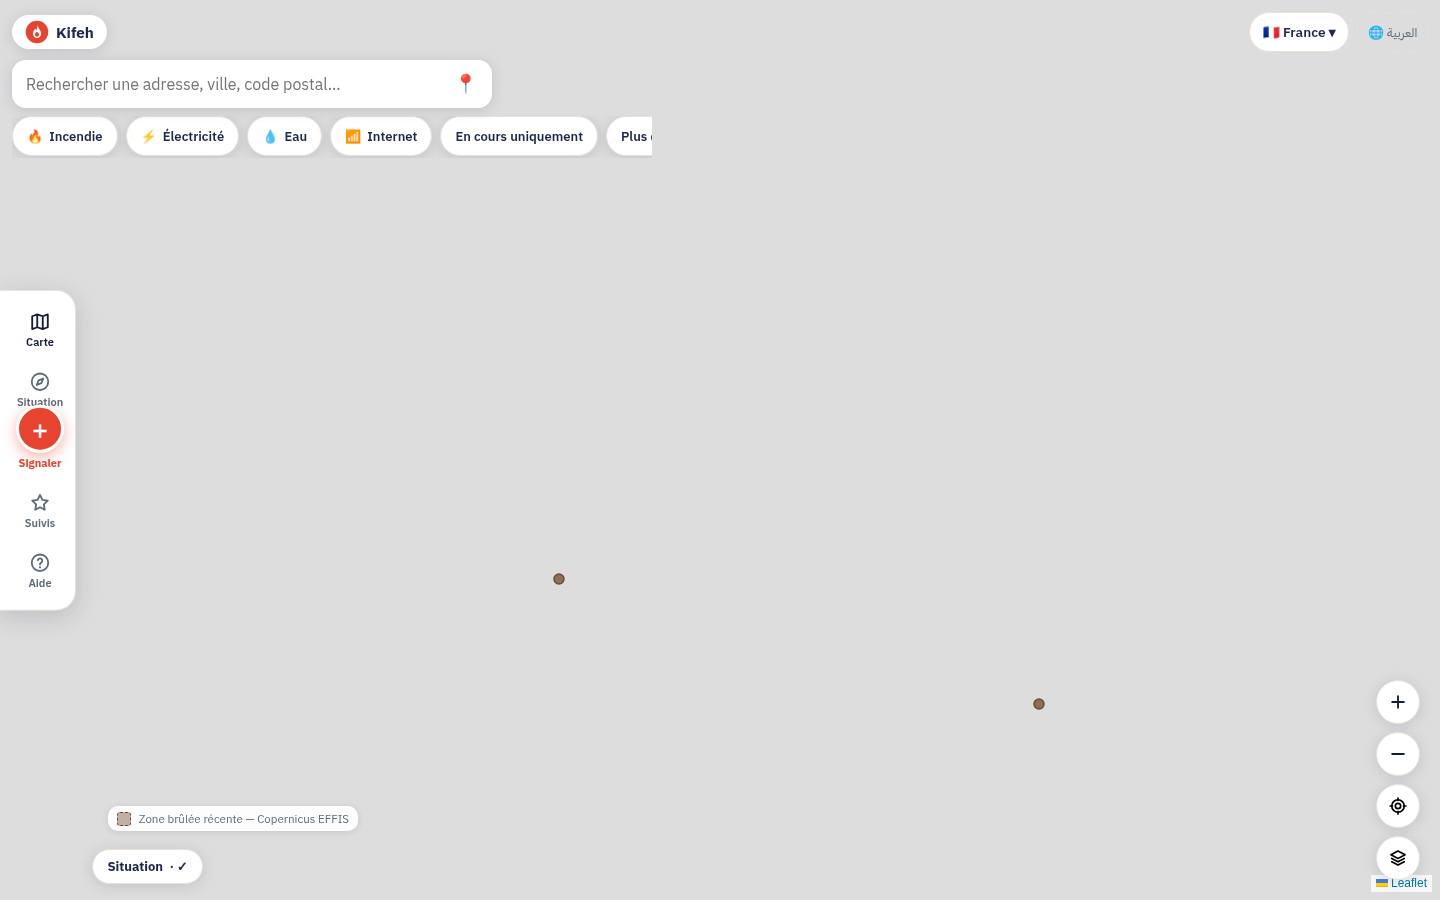
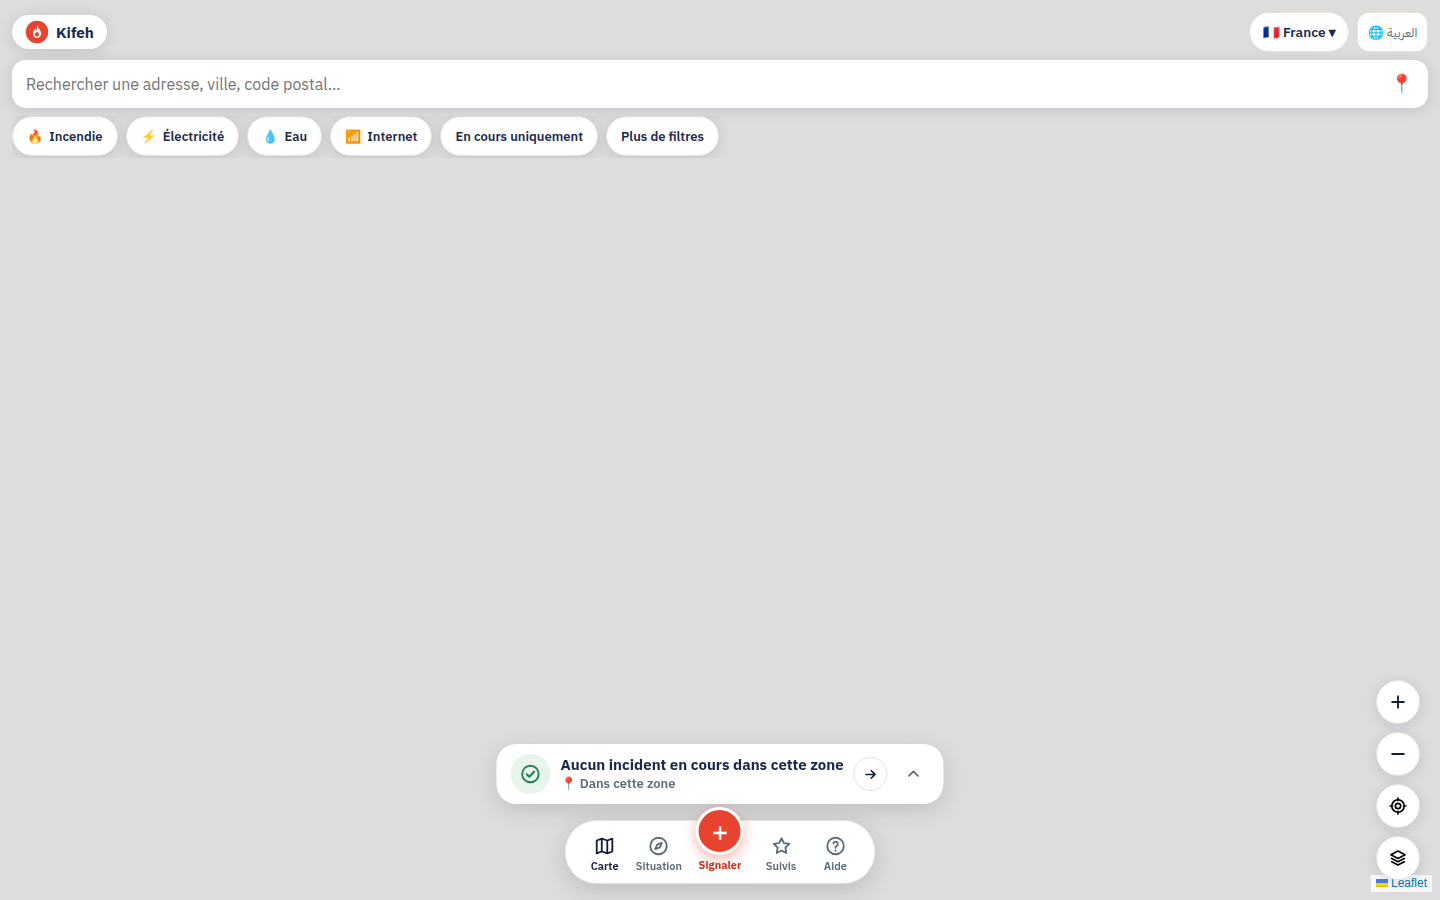
VISIBLE — Mobile #112 (incréments A+D) + météo honnête + légendes + lead-gen
Mobile, mesuré (ux-audit) : 390 px 39→35 % de carte recouverte, 320 px
56→52, 375 px 48→44 —
- A. carte héro REPLIÉE par défaut quand il ne se passe rien (choix
  explicite toujours gagnant)
- D. boutons ± masqués sur mobile (pincement) — position et couches
  restent ; tests modernisés en conséquence

Bannière météo honnête (retour Farah « pas vrai ») : un échec ponctuel ne
supprime plus le voile affiché ni ne crie « indisponible » — on garde le
connu, avertissement après 2 échecs max 1 fois/5 min, message distinct
« impossible de rafraîchir » vs « indisponible » (fr/ar).

Légendes desktop : côté FIN au-dessus des FAB (ma position bas-gauche
d'hier chevauchait la carte héro — le test anti-chevauchement l'a aussi
attrapé), RTL miroir.

Lead generation :
- IndexNow : clé stable auto-générée, fichier-clé servi /{clé}.txt, ping
  QUOTIDIEN des URLs publiques (mêmes registres que le sitemap) vers
  Bing/Yandex — production réelle uniquement, jamais un serveur de test
- Search Console : route /googleXXXX.html pilotée par réglage — l'action
  Farah tombe à 5 minutes (coller le nom de fichier)
- platform-check 137 ✓ (+4 lead-gen)

Batterie complète verte (backend, navigateur, mesure, marque re-référencée).

Claude-Session: https://claude.ai/code/session_01Xtj68HpNxhqV9w3jxL5u9R

diff --git a/src/routes/seo.js b/src/routes/seo.js
@@ -10,6 +10,7 @@ import { db, getSetting } from '../db.js';
 import { getProfile } from '../countries/index.js';
 import { getCapabilities } from '../services/capabilityRegistry.js';
 import { nsMsg, getNamespace } from '../services/i18nNamespaces.js';
+import { indexNowKey } from '../services/indexnow.js';
 import { fmtDateTime, emergencyLine } from '../services/localizationFormatter.js';
 import { getDailyForecast, forecastEnabled } from '../services/fireForecast.js';
 import { summarizeConditions } from '../services/fireForecastSummary.js';
@@ -325,6 +326,47 @@ seoRouter.get('/i/:publicId', (req, res) => {
 <p><strong>${esc(title)}</strong></p><p>${esc(desc)}</p>
 <p><a href="${appUrl}">Kifeh كيفاه →</a></p>
 </body></html>`);
+});
+
+// Liste des URLs publiques indexables — LA MÊME vérité que le sitemap
+// (consommée par IndexNow : une page qui existe est poussée, une page
+// retirée disparaît des pings).
+export function listSeoUrls() {
+  const urls = ['/', '/declare.html', '/faq.html', '/a-propos.html', '/legal.html', '/presse'];
+  for (const lang of LANGS) {
+    for (const cc of CCS) {
+      urls.push(`/${lang}/${cc}/incendies`);
+      for (const topic of ['previsions', 'danger-feu', 'methodologie-previsions']) {
+        urls.push(`/${lang}/${cc}/incendies/${topic}`);
+      }
+      for (const z of getProfile(cc.toUpperCase())?.seoZones || []) {
+        urls.push(`/${lang}/${cc}/incendies/${z.slug}`);
+      }
+      urls.push(`/${lang}/${cc}/incendies/comprendre/detections-satellite`);
+      if (cc === 'fr') urls.push(`/${lang}/fr/incendies/comprendre/reperes-dfci`);
+    }
+  }
+  return urls;
+}
+
+// ── Fichier-clé IndexNow + vérification Search Console ─────────────────────
+// /{clé}.txt : preuve de propriété IndexNow (clé stable, réglage).
+// /googleXXXX.html : preuve Search Console — Farah colle le NOM DE FICHIER
+// donné par Google, une migration pose le réglage, la route répond. Zéro
+// contenu tant que le réglage est vide (404 propre).
+seoRouter.get('/:keyfile', (req, res, next) => {
+  const f = String(req.params.keyfile || '');
+  if (/^[a-f0-9]{32}\.txt$/.test(f)) {
+    const key = indexNowKey(); // générée au premier passage, stable ensuite
+    if (f === `${key}.txt`) return res.type('text/plain').send(key);
+  }
+  if (/^google[a-f0-9]{16}\.html$/.test(f)) {
+    const wanted = getSetting('google_verification_file');
+    if (wanted && f === wanted) {
+      return res.type('html').send(`google-site-verification: ${f}`);
+    }
+  }
+  next(); // pas pour nous : statique et 404 habituels
 });
 
 // ── Sitemap GÉNÉRÉ depuis les registres (#83) ───────────────────────────────

diff --git a/src/services/indexnow.js b/src/services/indexnow.js
@@ -1,0 +1,55 @@
+// IndexNow (#lead-gen) — indexation INSTANTANÉE Bing/Yandex/Seznam, sans
+// console ni compte : un fichier-clé servi à la racine + un ping quotidien
+// avec la liste des URLs publiques (les mêmes registres que le sitemap).
+// Google ignore IndexNow — pour Google, c'est Search Console (action Farah,
+// réduite à coller un nom de fichier grâce à la route de vérification).
+// Garde-fous : jamais en sandbox/développement, jamais depuis un serveur de
+// test (hôte kifeh.app uniquement), 1 ping par 24 h, échec silencieux borné.
+import { getSetting, setSetting } from '../db.js';
+import crypto from 'node:crypto';
+
+const ENDPOINT = () => process.env.INDEXNOW_URL || 'https://api.indexnow.org/indexnow';
+const HOST = 'kifeh.app';
+const BASE = `https://${HOST}`;
+
+// La clé est générée UNE fois puis stable (le fichier-clé doit rester servi).
+export function indexNowKey() {
+  let k = getSetting('indexnow_key');
+  if (!/^[a-f0-9]{32}$/.test(k || '')) {
+    k = crypto.randomBytes(16).toString('hex');
+    setSetting('indexnow_key', k);
+  }
+  return k;
+}
+
+// Appelé par le scheduler (tick 60 s) : au plus un ping par 24 h.
+export async function syncIndexNow({ listUrls, force = false } = {}) {
+  if (getSetting('indexnow_enabled') === '0') return { skipped: 'disabled' };
+  const baseUrl = process.env.BASE_URL || '';
+  if (!force && !baseUrl.includes(HOST)) return { skipped: 'not_prod' }; // jamais depuis un serveur de test
+  const last = Date.parse(getSetting('indexnow_last_ping_at') || 0) || 0;
+  if (!force && Date.now() - last < 24 * 3600_000) return { skipped: 'recent' };
+  const urls = (listUrls?.() || []).map((p) => (p.startsWith('http') ? p : BASE + p));
+  if (!urls.length) return { skipped: 'empty' };
+  const key = indexNowKey();
+  const r = await fetch(ENDPOINT(), {
+    method: 'POST',
+    headers: { 'Content-Type': 'application/json; charset=utf-8' },
+    body: JSON.stringify({
+      host: HOST, key, keyLocation: `${BASE}/${key}.txt`, urlList: urls.slice(0, 500),
+    }),
+    signal: AbortSignal.timeout(10_000),
+  });
+  // 200/202 = accepté. On horodate même un refus permanent (4xx) pour ne pas
+  // marteler l'API — le prochain essai attendra son tour quotidien.
+  setSetting('indexnow_last_ping_at', new Date().toISOString());
+  setSetting('indexnow_last_status', String(r.status));
+  return { status: r.status, urls: urls.length };
+}
+
+export function indexNowStatus() {
+  return {
+    lastPing: getSetting('indexnow_last_ping_at') || null,
+    lastStatus: getSetting('indexnow_last_status') || null,
+  };
+}

diff --git a/public/css/app.css b/public/css/app.css
@@ -329,6 +329,9 @@ html[dir="rtl"] .topbar .back .arrow { display: inline-block; transform: scaleX(
   bottom: calc(4.5rem + env(safe-area-inset-bottom));
   display: flex; flex-direction: column; gap: .5rem;
 }
+/* #112 incrément D — mobile : le pincement zoome déjà, les boutons +/− sont
+   du mobilier en trop sur petit écran (les concurrents n'en ont pas). Ils
+   restent dès la tablette (clavier/souris). */
 .fab {
   appearance: none; border: 1px solid var(--border, #e5e0d8); cursor: pointer;
   width: 2.75rem; height: 2.75rem; border-radius: 50%;
@@ -337,6 +340,11 @@ html[dir="rtl"] .topbar .back .arrow { display: inline-block; transform: scaleX(
 }
 .fab:active { transform: scale(.96); }
 .fab-zoom { font-size: 1.375rem; font-weight: 600; color: var(--primary-dark); }
+/* #112 incrément D — mobile : le pincement zoome déjà ; +/− dès la tablette.
+   (Placé APRÈS .fab : même l'ordre de la cascade ne peut pas le trahir.) */
+@media (max-width: 767px) {
+  .map-fabs .fab-zoom { display: none; }
+}
 
 /* Marque cliquable (retour à la vue d'ensemble) — un bouton qui garde
    EXACTEMENT l'apparence pilule du logo (la règle .home-brandbar .brand-name
@@ -922,11 +930,12 @@ html, body { overscroll-behavior: none; }
 }
 .wx-legend .small { font-size: .72rem; }
 .wx-legend .muted.small { flex-basis: 100%; }
-/* Desktop : les légendes quittent l'axe central de la carte (retour Farah
-   03/08 « trop crowded ») — coin bas, hors du chemin visuel, RTL miroir. */
+/* Desktop : les légendes quittent l'axe central SANS toucher la carte héro
+   (qui vit à gauche — le chevauchement du 03/08 au soir était ma collision) :
+   côté FIN, au-dessus des boutons flottants, RTL miroir automatique. */
 @media (min-width: 1100px) {
-  .wx-legend { position: fixed; inset-inline-start: 1rem; bottom: calc(4rem + env(safe-area-inset-bottom)); margin: 0; z-index: 1000; }
-  #burntLegend { bottom: calc(6.4rem + env(safe-area-inset-bottom)); }
+  .wx-legend { position: fixed; inset-inline-end: 4.5rem; inset-inline-start: auto; bottom: 1.25rem; margin: 0; z-index: 1000; }
+  #burntLegend { bottom: 3.6rem; }
 }
 
 /* Boutons d'action de la bulle : sur UNE ligne, jamais empilés */

diff --git a/public/js/home-layers.js b/public/js/home-layers.js
@@ -13,6 +13,8 @@
 const weatherLayer = L.layerGroup();
 let weatherOn = false;
 let weatherTimer = null;
+let wxFailStreak = 0;   // échecs consécutifs de la grille (bannière ≥ 2)
+let wxLastWarnAt = 0;   // anti-matraquage : 1 avertissement par 5 min max
 
 function tempFill(c) {
   if (c >= 34) return '#C4622D';
@@ -31,11 +33,22 @@ async function drawWeatherLayer() {
       minLng: b.getWest().toFixed(3), maxLng: b.getEast().toFixed(3),
     })}`);
   } catch { r = null; }
-  weatherLayer.clearLayers();
   if (!r?.enabled || !r.grid?.cells?.length) {
-    if (weatherOn) transientBanner(t('wx_layer_unavailable'));
+    // HONNÊTETÉ (retour Farah 03/08 : « pas vrai ») : un échec PONCTUEL ne
+    // doit ni effacer le voile déjà affiché, ni crier « indisponible ». On
+    // garde le connu, on ne prévient qu'après 2 échecs, 1 fois par 5 min,
+    // avec le bon message selon qu'un voile est visible ou non.
+    wxFailStreak++;
+    const hasVeil = weatherLayer.getLayers().length > 0;
+    if (!hasVeil) weatherLayer.clearLayers();
+    if (weatherOn && wxFailStreak >= 2 && Date.now() - wxLastWarnAt > 5 * 60_000) {
+      wxLastWarnAt = Date.now();
+      transientBanner(t(hasVeil ? 'wx_layer_refresh_failed' : 'wx_layer_unavailable'));
+    }
     return;
   }
+  wxFailStreak = 0;
+  weatherLayer.clearLayers();
   const g = r.grid;
   window._lastWxAt = g.updatedAt || window._lastWxAt;
   // Panne amont : la DERNIÈRE grille connue s'affiche avec son heure réelle

diff --git a/public/js/home.js b/public/js/home.js
@@ -741,8 +741,15 @@ function renderSummary(degraded, snapshotAt) {
     const chipState = heroFire ? '🔥' : (active.length ? `⚠ ${active.length}` : '✓');
     chip.innerHTML = `<strong>${esc(t('nav_situation'))}</strong> · ${chipState}${satsShown.length ? ` · 🛰 ${satsShown.length}` : ''}${snapshotAt ? ` · <span class="muted">${esc(timeAgo(new Date(snapshotAt).toISOString()))}</span>` : ''}`;
   }
-  let heroCollapsed = false;
-  try { heroCollapsed = localStorage.getItem('kifeh_hero_collapsed') === '1'; } catch {}
+  // #112 incrément A — CALME PAR DÉFAUT : quand il ne se passe RIEN dans la
+  // zone (ni signalement actif, ni feu), la carte héro démarre REPLIÉE (une
+  // ligne + chevron) et rend la carte au regard. Dès qu'il y a quelque chose
+  // à dire, elle s'ouvre. Le choix explicite de la personne gagne toujours.
+  let heroCollapsed;
+  try {
+    const saved = localStorage.getItem('kifeh_hero_collapsed');
+    heroCollapsed = saved != null ? saved === '1' : (!active.length && !heroFire);
+  } catch { heroCollapsed = false; }
   counter.classList.toggle('hero-collapsed', heroCollapsed);
   const heroToggle = `<button type="button" class="hero-toggle" id="heroToggle"
       aria-expanded="${heroCollapsed ? 'false' : 'true'}"

diff --git a/public/js/i18n.js b/public/js/i18n.js
@@ -92,6 +92,7 @@ const I18N = {
     lgrp_context: 'Contexte',
     layers_absent_note: 'Une couche absente ici n’existe pas encore pour ce territoire — Kifeh le dit plutôt que de l’inventer.',
     lay_fresh: 'à jour', lay_delayed: 'retardée', lay_stale: 'ancienne',
+    wx_layer_refresh_failed: 'Impossible de rafraîchir la météo pour l’instant — dernier voile connu conservé.',
     replay_btn: 'Évolution 72 h',
     replay_banner: 'Vous regardez le passé — {t}',
     replay_live_hint: '· toucher pour revenir au direct',
@@ -695,6 +696,7 @@ const I18N = {
     lgrp_context: 'السياق',
     layers_absent_note: 'الطبقة الغائبة هنا غير متوفرة بعد لهذا البلد — كيفاه تقول ذلك بدل اختلاقها.',
     lay_fresh: 'محدّثة', lay_delayed: 'متأخرة', lay_stale: 'قديمة',
+    wx_layer_refresh_failed: 'تعذّر تحديث الطقس حاليًا — أُبقي آخر غطاء معروف.',
     replay_btn: 'تطوّر 72 ساعة',
     replay_banner: 'أنتم تشاهدون الماضي — {t}',
     replay_live_hint: '· المسّ للعودة إلى المباشر',

diff --git a/src/services/scheduler.js b/src/services/scheduler.js
@@ -16,6 +16,7 @@ import { syncVigilance } from './vigilance.js';
 import { syncEffis } from './effis.js';
 import { syncRoads } from './roads.js';
 import { syncAircraft } from './aircraft.js';
+import { syncIndexNow } from './indexnow.js';
 import { msg } from '../i18n.js';
 
 export function startScheduler() {
@@ -55,6 +56,14 @@ export async function tick() {
   // n'est allumé — le service se borne lui-même (90 s, 3 zones, 1,2 s/req).
   if (!config.isSandbox) {
     try { await syncAircraft(); } catch (e) { console.error('[aircraft]', e.message); }
+  }
+  // IndexNow : 1 ping quotidien des URLs publiques vers Bing/Yandex —
+  // uniquement depuis la production réelle (jamais un serveur de test).
+  if (!config.isSandbox) {
+    try {
+      const { listSeoUrls } = await import('../routes/seo.js');
+      await syncIndexNow({ listUrls: listSeoUrls });
+    } catch (e) { console.error('[indexnow]', e.message); }
   }
   // Purge RGPD des abonnements d'alertes dormants (voir services/push.js).
   try { prunePushSubscriptions(); } catch { /* jamais bloquant */ }

diff --git a/src/config.js b/src/config.js
@@ -205,6 +205,10 @@ export const defaultSettings = {
   // Replay visible (#110, master PR 5) : « Voir l'évolution 72 h » en mode
   // feux — ACTIF par défaut (exécution visible demandée), coupure à chaud.
   fire_replay_enabled: '1',
+  // Lead generation : IndexNow (Bing/Yandex, quotidien, prod uniquement) et
+  // fichier de vérification Search Console (Farah colle le nom → migration).
+  indexnow_enabled: '1',
+  google_verification_file: '',
   // Chantier #82 : moyens aériens ADS-B — ingestion serveur livrée, ÉTEINTE
   // par territoire tant que l'interface calques (Phase 1) ne l'accueille pas.
   fire_aircraft_enabled_fr: '0',
